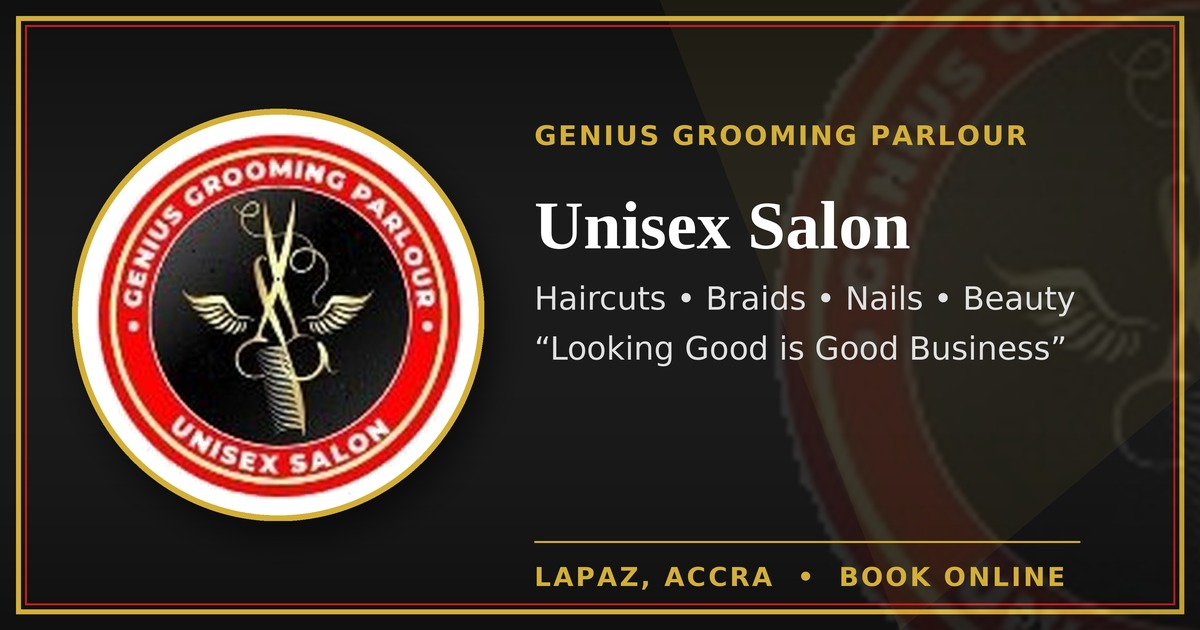
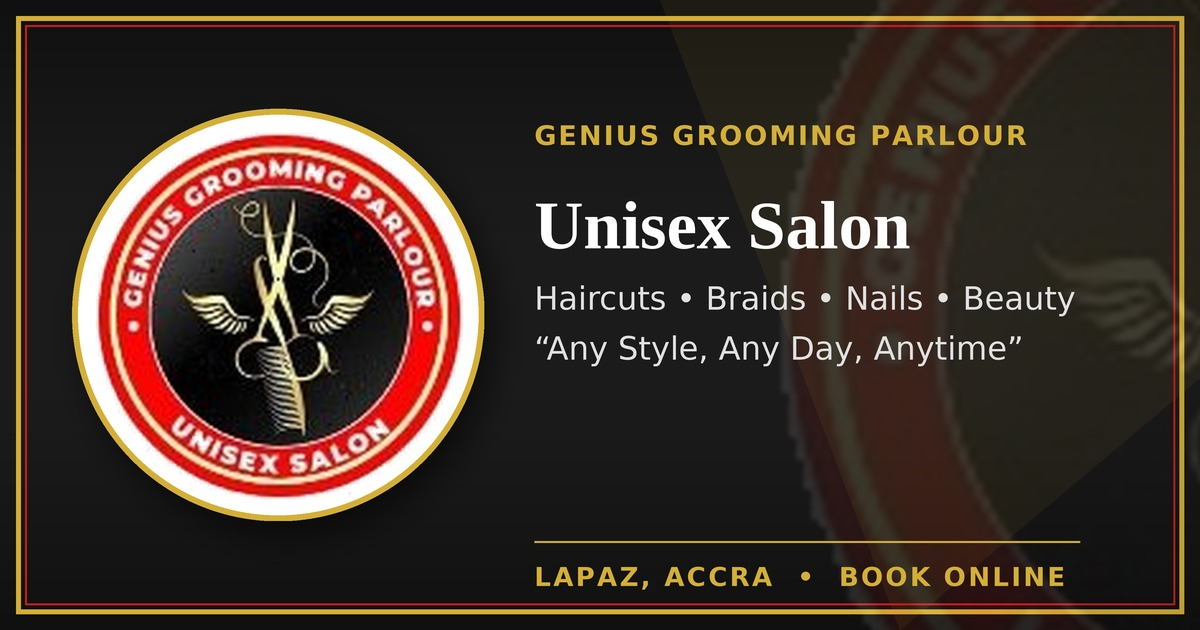
Update slogan to "Any Style, Any Day, Anytime"
Replaces the old "Sharp Fades. Sharper Style." tagline everywhere
it's sourced from shopData.js (Hero, Welcome popup), and regenerates
the og-image and WhatsApp channel QR code with the new slogan text.

Claude-Session: https://claude.ai/code/session_017iALrU8i3aheWhwgzU2W9V

Changed region(s): [[0.4317, 0.5127, 0.8942, 0.573], [0.925, 0.4222, 0.9558, 0.4524]]

diff --git a/src/data/shopData.js b/src/data/shopData.js
@@ -4,7 +4,7 @@
 export const shop = {
   name: "Genius Grooming Parlor",
   type: "Unisex Salon",
-  tagline: "Sharp Fades. Sharper Style.",
+  tagline: "Any Style, Any Day, Anytime.",
   phone: "+233 24 708 3940",
   phone2: "+233 53 092 5603",
   whatsapp: "233247083940",
